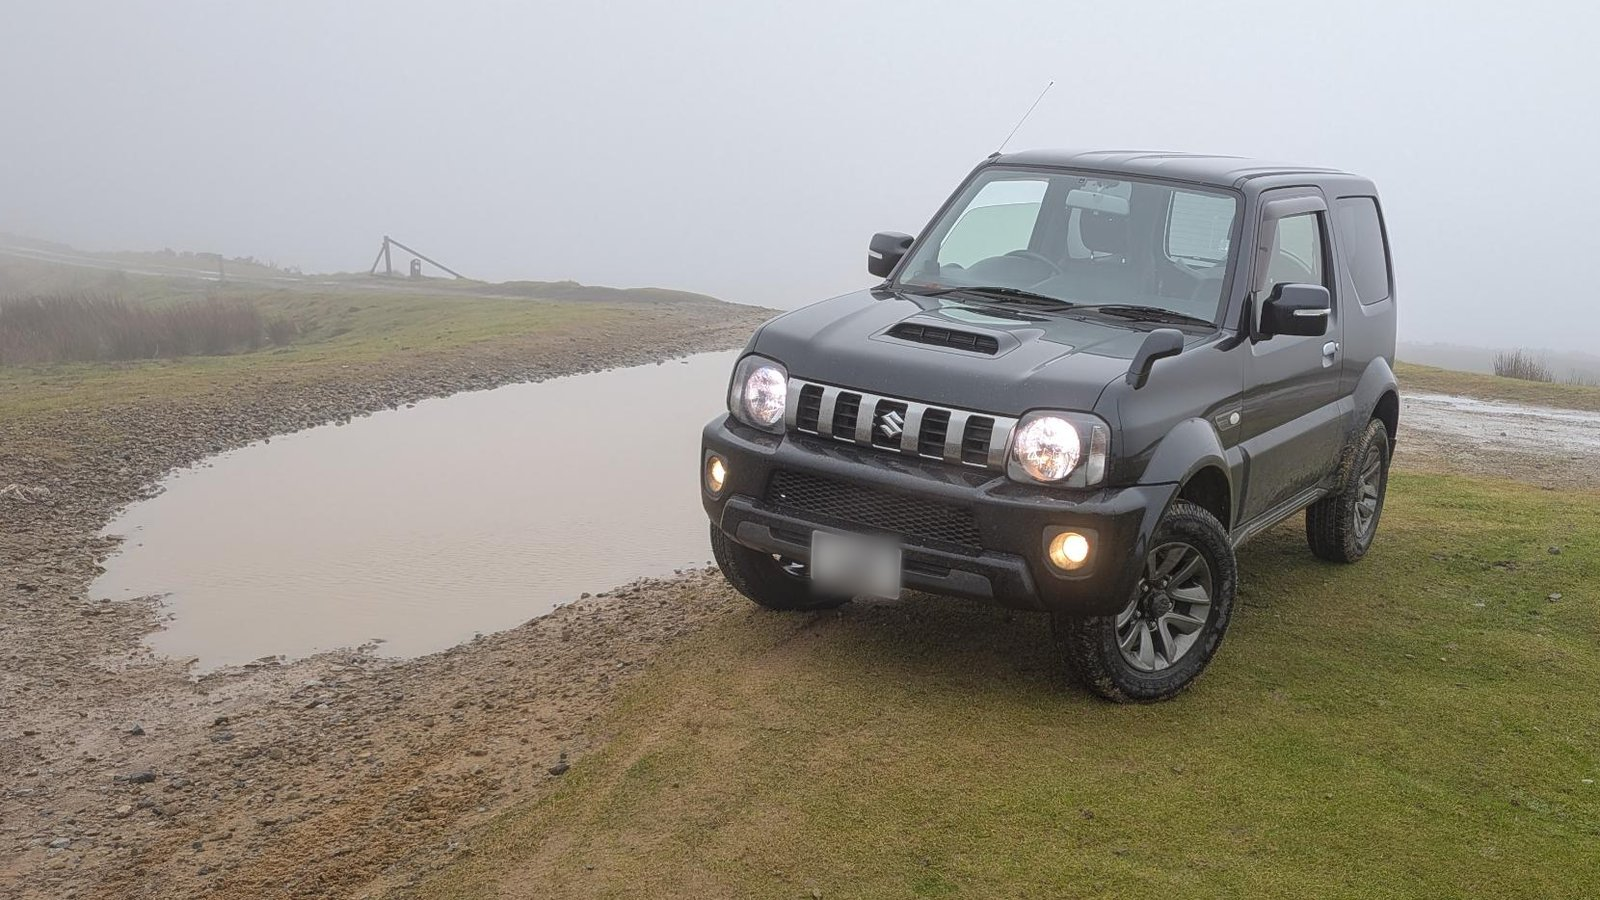
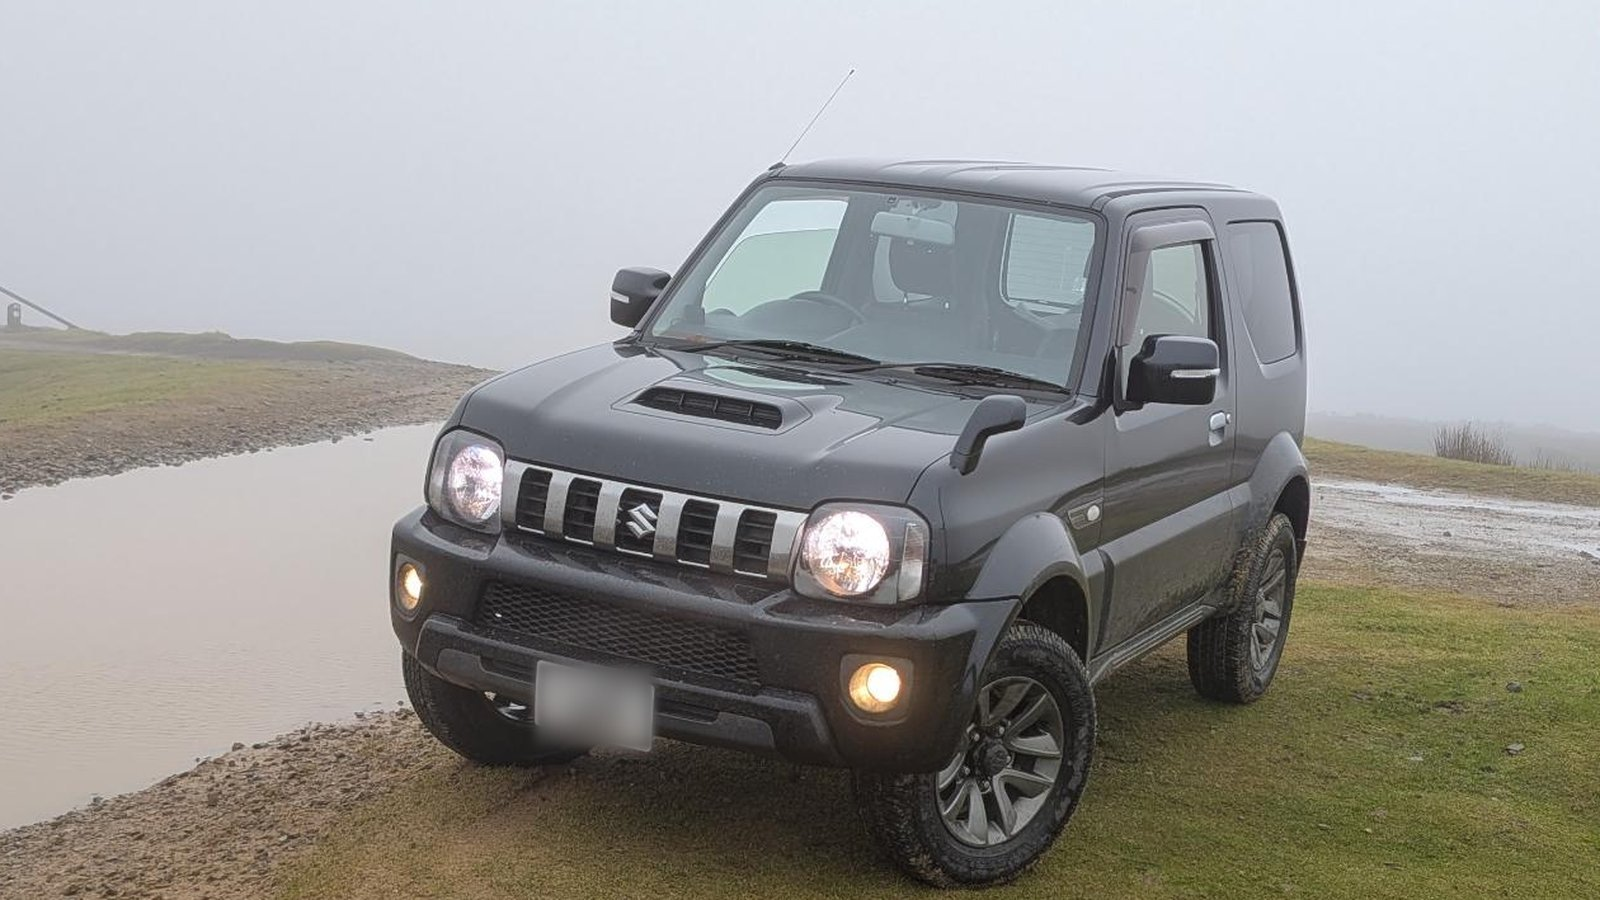
Blog: tighter hero crop, Meet the Jimny section with a 2x2 grid
Claude-Session: https://claude.ai/code/session_01WsXv8Ax3thDAQyoE9M17or

diff --git a/docs/_layouts/default.html b/docs/_layouts/default.html
@@ -85,6 +85,9 @@
       width: 100%; height: 180px; max-height: none; object-fit: cover; margin: 0 0 6px;
     }
     .gallery figcaption { color: var(--muted); font-size: 0.85rem; line-height: 1.4; }
+    /* Meet the Jimny: always a 2x2 grid, phones included. */
+    #meet-the-jimny + p + .gallery { grid-template-columns: repeat(2, 1fr); gap: 10px; }
+    #meet-the-jimny + p + .gallery img { height: auto; aspect-ratio: 4 / 3; }
     .lightbox {
       border: 0; padding: 0; background: transparent; max-width: 100vw; max-height: 100vh;
       width: 100vw; height: 100vh; margin: 0;

diff --git a/docs/index.md b/docs/index.md
@@ -744,9 +744,9 @@ me, but I haven't decided yet whether to do it myself.
 Other than that, it's a bit of cleanup, tidying the wiring under the seats and in the boot, and
 carrying on with the tuning, which is a lot of trial and error really.
 
-## Out and about
+## Meet the Jimny
 
-It's not all about the audio, so here's the Jimny out and about.
+A few photos of the car itself, from days out on the moors.
 
 ![Out in the hills, with the sheep for company](images/thumbs/56-hills.jpg)
 *Out in the hills, with the sheep for company.*
